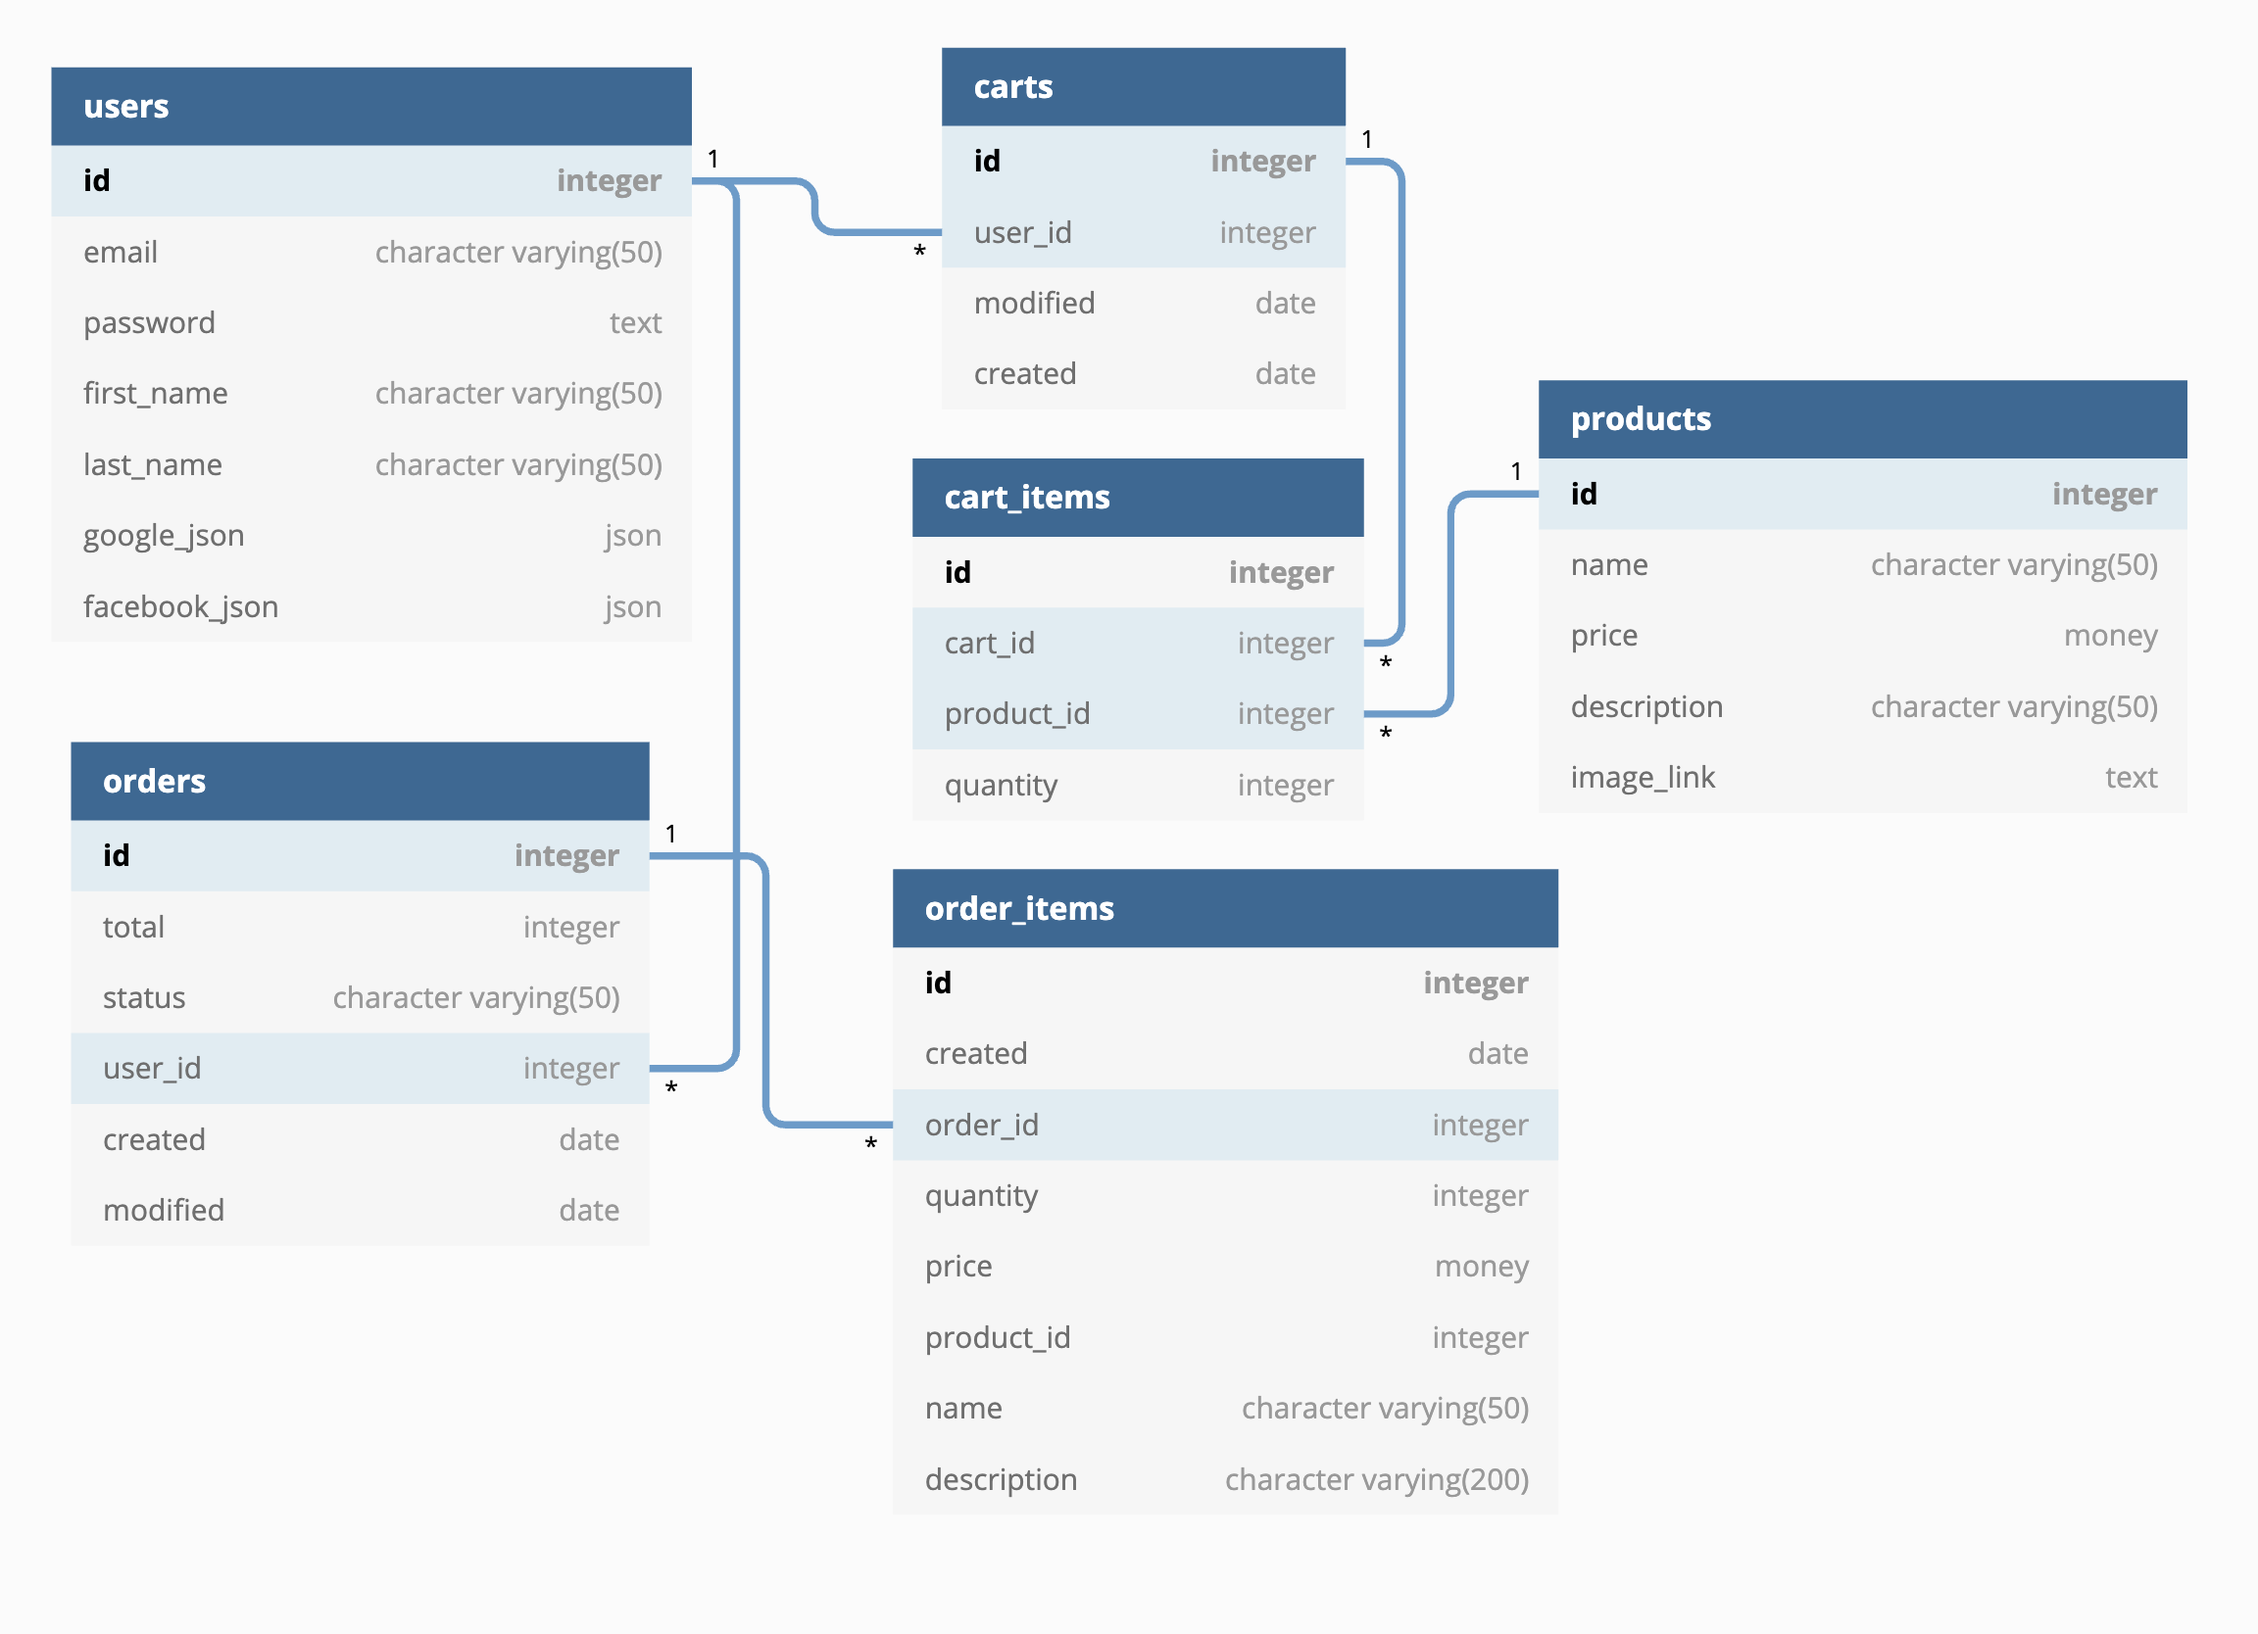
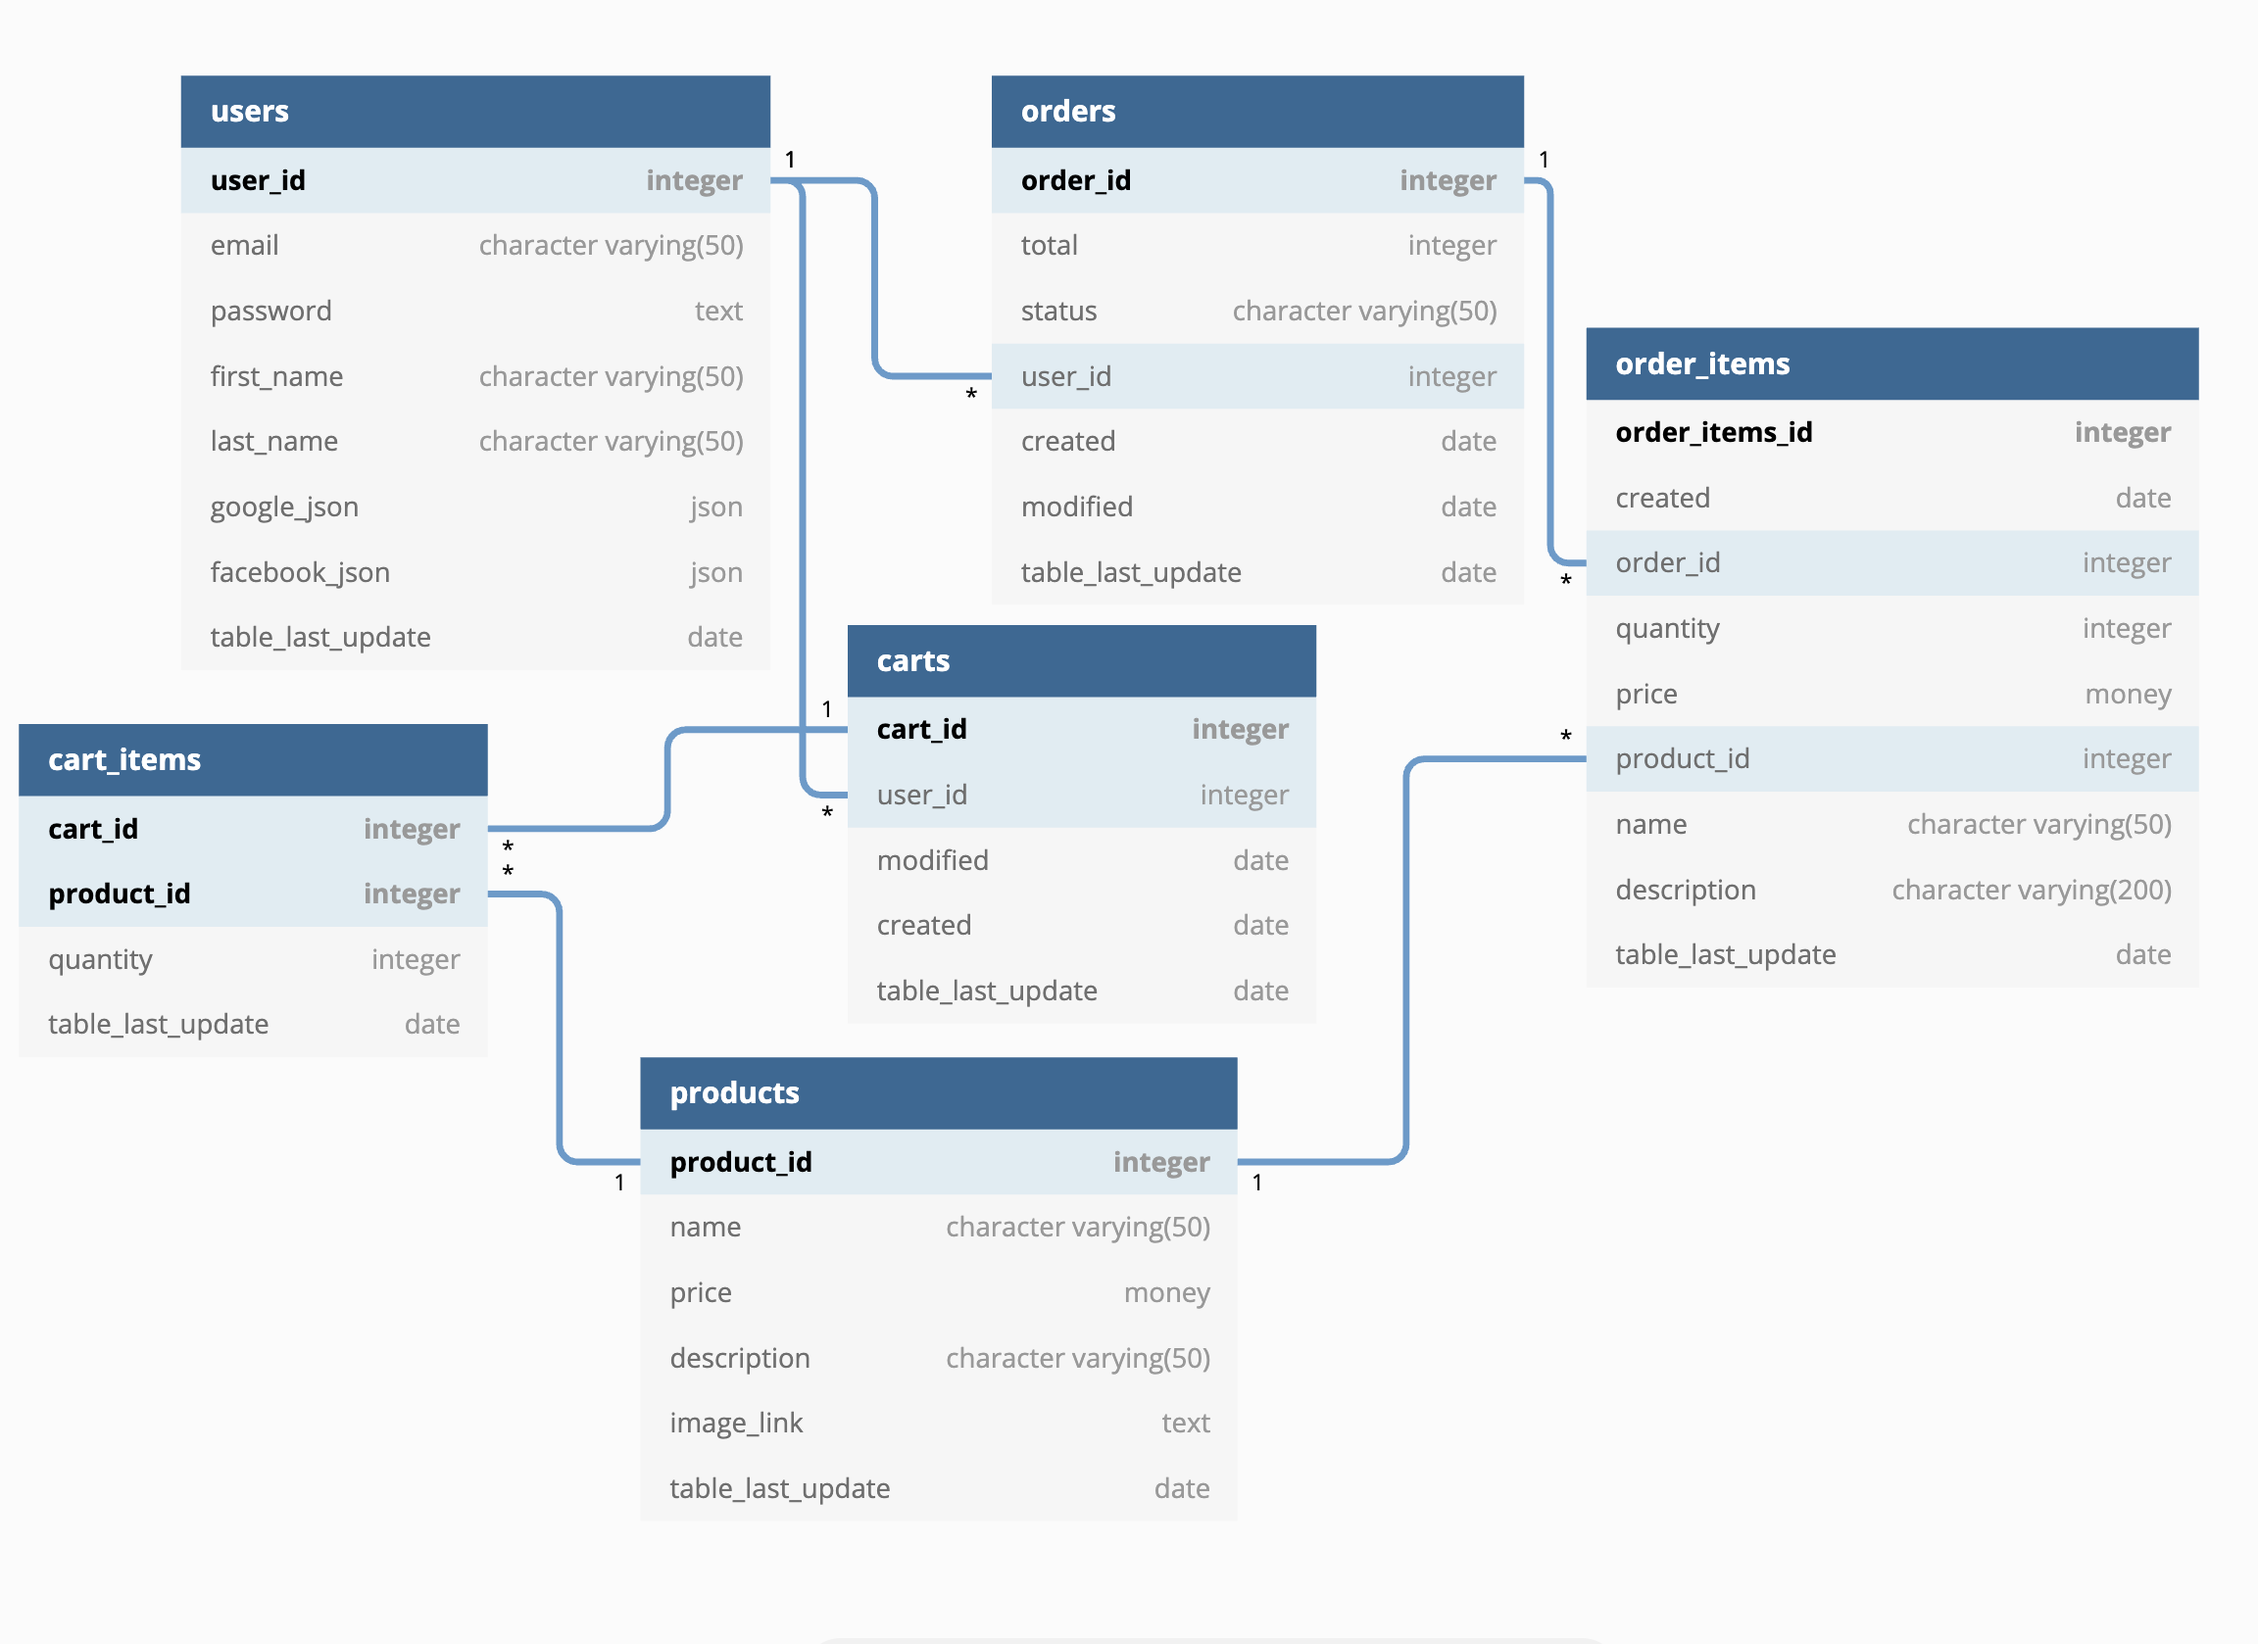
Modify tables schema for better indexing and scale - Add composite index and automatic timestamp

diff --git a/api/users/queries.js b/api/users/queries.js
@@ -25,7 +25,7 @@ const getAllUsers = (req, res) => {
 const getUserById = (req, res) => {
   const id = parseInt(req.params.id);
 
-  pool.query("SELECT * FROM users WHERE id = $1", [id], (err, results) => {
+  pool.query("SELECT * FROM users WHERE user_id = $1", [id], (err, results) => {
     if (err) {
       throw err;
     }
@@ -54,7 +54,7 @@ const updateUser = (req, res) => {
   const { email, password, first_name, last_name, google_json, facebook_json } =
     req.body;
   pool.query(
-    "UPDATE users SET email = $2, password = $3, first_name = $4, last_name = $5, google_json = $6, facebook_json = $7 WHERE id = $1",
+    "UPDATE users SET email = $2, password = $3, first_name = $4, last_name = $5, google_json = $6, facebook_json = $7 WHERE user_id = $1",
     [reqId, email, password, first_name, last_name, google_json, facebook_json],
     (err, results) => {
       if (err) {
@@ -67,7 +67,7 @@ const updateUser = (req, res) => {
 //DELETE api/users/:id
 const deleteUser = (req, res) => {
   const id = parseInt(req.params.id);
-  pool.query("DELETE FROM users WHERE id = $1", [id], (err, results) => {
+  pool.query("DELETE FROM users WHERE user_id = $1", [id], (err, results) => {
     if (err) {
       throw err;
     }

diff --git a/api/cart/queries.js b/api/cart/queries.js
@@ -52,7 +52,7 @@ const updateCart = (req, res) => {
   const reqId = parseInt(req.params.id);
   const { user_id } = req.body;
   pool.query(
-    "UPDATE carts SET user_id = $2, modified = now() WHERE id = $1",
+    "UPDATE carts SET user_id = $2 WHERE id = $1",
     [reqId, user_id],
     (err, results) => {
       if (err) {

diff --git a/README.md b/README.md
@@ -1,4 +1,4 @@
-# Tee-Hee e-commerc (RESTful API)
+# Tee-Hee e-commerce (RESTful API)
 
 The purpose of this project is to build a REST API for an e-commerce using Node.js, Express and Postgres.
 The database/API will then used by a client to retrieve, modify and add (CRUD) elements.
